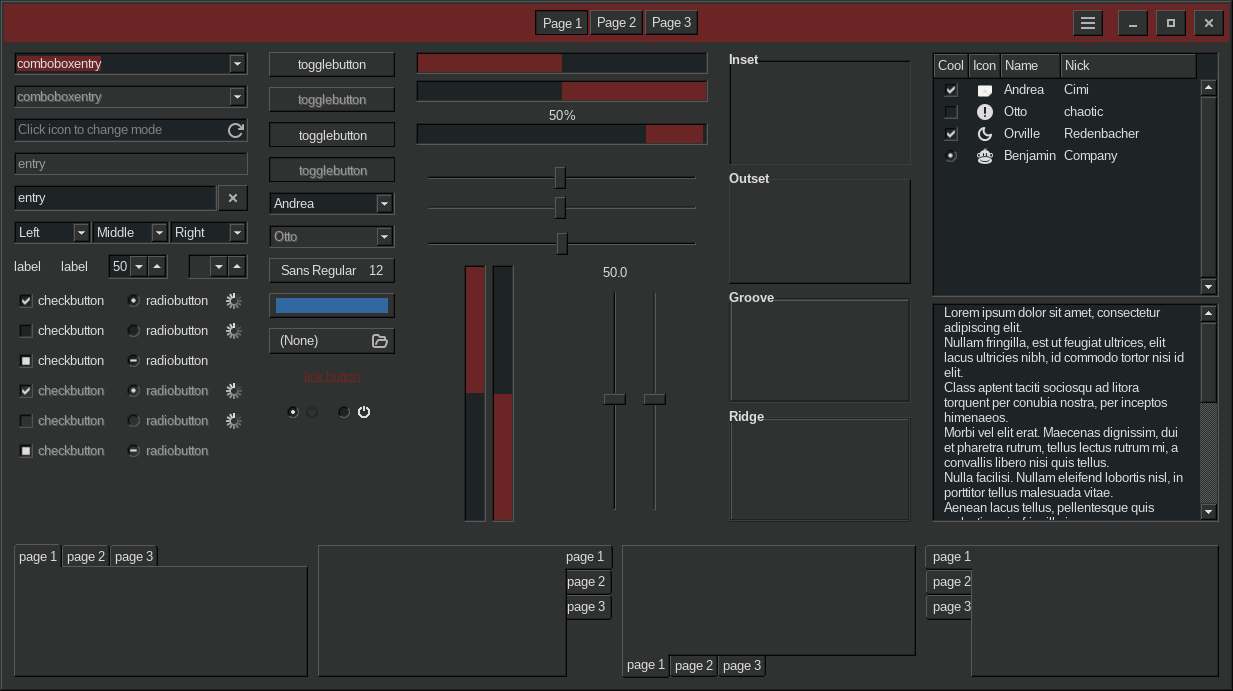
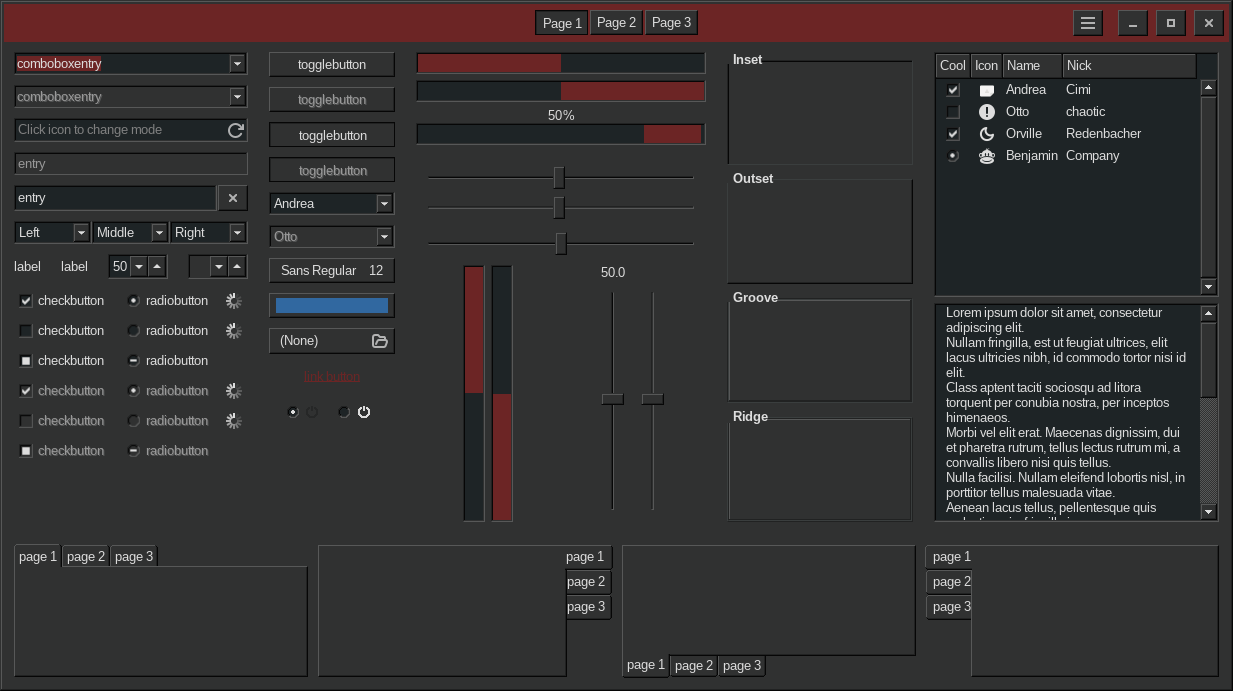
Move the label of a frame 6px to the right
The label started at the left edge of the frame, on the line of the border.
GTK3 and GTK4 read the same rule, because `gtk-4.0/gtk.css` imports the style
sheet of GTK3.

diff --git a/gtk-3.0/gtk-frame.css b/gtk-3.0/gtk-frame.css
@@ -12,6 +12,10 @@ frame > border {
   box-shadow: 1px 1px @light_shadow inset, -1px -1px @dark_shadow inset; } 
 
 
+frame > label {
+  margin-left: 6px; }
+
+
 /* Status bar border */
 
 
